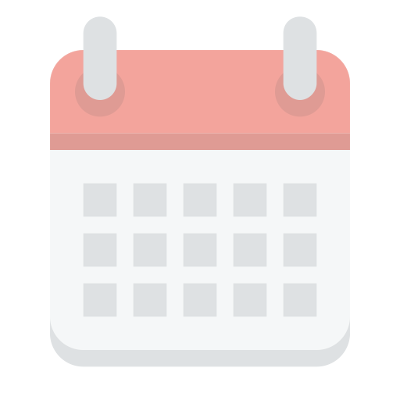
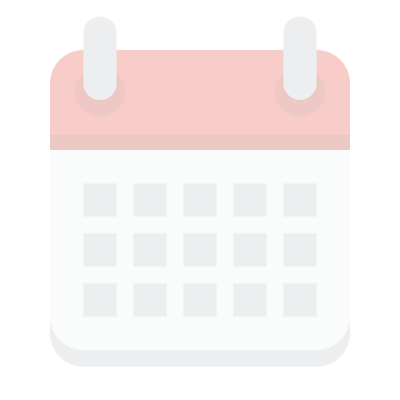
Better presentation of "programação" in bigger screens

Changed region(s): [[0.12, 0.12, 0.9, 0.39]]

diff --git a/css/responsive.9b8ba377e4aee34a08cc831aa3b9a96d.css b/css/responsive.9b8ba377e4aee34a08cc831aa3b9a96d.css
@@ -54,16 +54,6 @@
 
 }
 
-/* special case */
-@media (min-width: 768px) {
-  #programacao {
-    background-image: url("../images/calendar.png");
-    background-size: initial;
-    background-position: right bottom;
-    background-repeat: no-repeat;
-  }
-}
-
 /* sm */
 @media (min-width: 768px) and (max-width: 991px) {
 
@@ -288,11 +278,11 @@
   }
 
   #programacao {
+    font-size: 1em;
     background-size: 80%;
     background-image: url("../images/calendar.png");
     background-position: center bottom;
     background-repeat: no-repeat;
-    background-blend-mode: luminosity;
   }
 
 }

diff --git a/css/main.85e15f76f54e7caf5e1664212287377e.css b/css/main.85e15f76f54e7caf5e1664212287377e.css
@@ -765,12 +765,14 @@ h2 {
 ******programacao CSS****
 **************************/
 #programacao {
+  font-size: 1.5em;
   min-height: 700px;
   /*background-color: #F78847;*/
   background-color: #EAD2AC;
-  /*background-image: url("../images/calendar.png");*/
-  /*background-size: initial;*/
-  /*background-position: center center;*/
+  background-image: url("../images/calendar.png");
+  background-size: initial;
+  background-position: center bottom;
+  background-blend-mode: luminosity;
 }
 
 #programacao-content {
